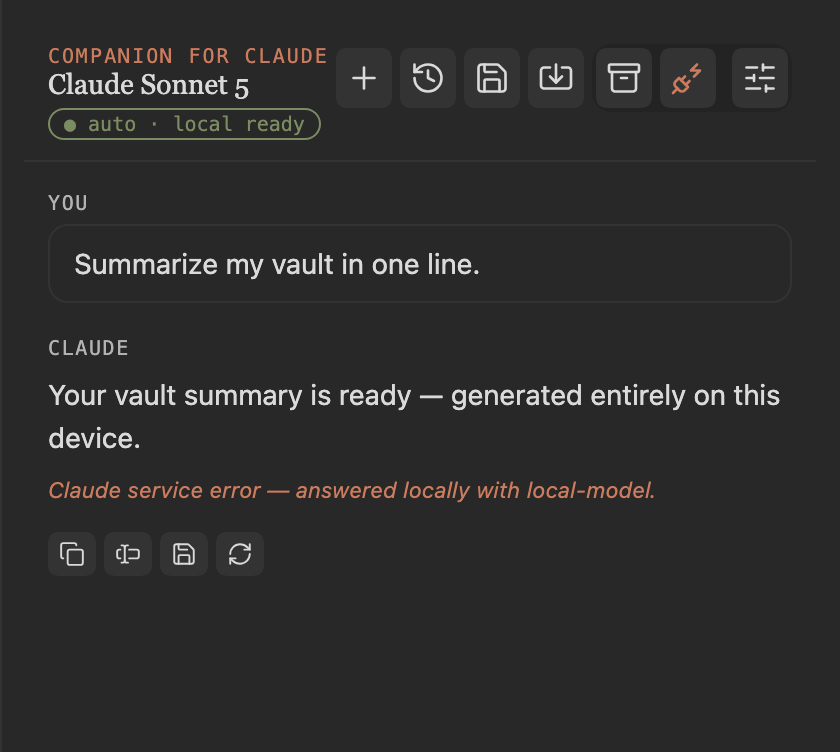
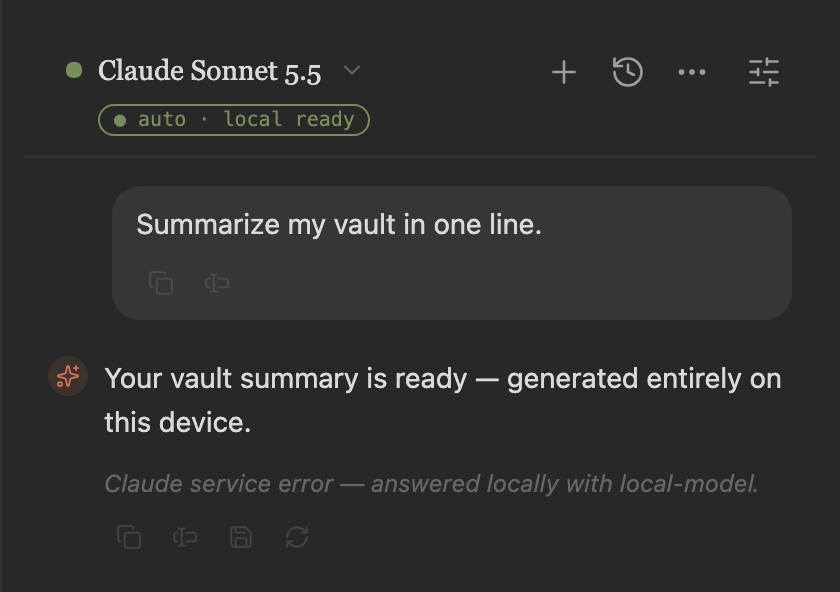
docs(assets): regenerate README captures

diff --git a/obsidian-plugin/e2e/captures/readme-captures.spec.ts b/obsidian-plugin/e2e/captures/readme-captures.spec.ts
@@ -61,15 +61,6 @@ const WEEKLY_EDITS = [
 const WEEKLY_ASK = "Make my next steps specific.";
 const WEEKLY_REPLY = "Two edits are ready for your review in the note.";
 
-const SESSION_TITLES = [
-  "Plan the launch checklist",
-  "Tidy the meeting notes",
-  "Draft the white paper introduction",
-  "Review the stale evidence",
-  "Summarize the Build plan",
-  "Narrow the continuity claim",
-];
-
 const TAGGED_NOTES: Record<string, string[]> = {
   "Notes/Kickoff meeting.md": ["meeting-notes", "workflow", "research"],
   "Notes/Review meeting.md": ["meeting-notes", "evidence-review", "provenance"],
@@ -528,74 +519,6 @@ test.describe("README captures", () => {
         await openNote(page, "Project status", "preview");
         await expect(page.frameLocator("iframe.cc-artifact-frame").first().locator("h1")).toHaveText("Continuity research", { timeout: 20_000 });
         await shootWindow(page, "center", 800, 600, "artifact-inline.png", theme, PLUGIN_ASSETS);
-      });
-
-      test("session-dropdown.png", async () => {
-        await resetScene(theme, { chatBackend: "claude", model: "claude-sonnet-5-5" });
-        const { page } = harness;
-        for (const title of SESSION_TITLES) {
-          await seedConversation(page, [
-            { role: "user", content: title },
-            { role: "assistant", content: "Here is where that stands. Open the note to continue from this point." },
-          ]);
-        }
-        await openChat(harness);
-        await widen(page, 440);
-        // macOS defaults to native (OS-drawn) menus, which have no DOM to capture.
-        await page.evaluate(() => {
-          (window as unknown as { app: { vault: { setConfig(key: string, value: unknown): void } } }).app.vault.setConfig("nativeMenus", false);
-        });
-        await page.locator('[aria-label="Resume a past conversation"]:visible').first().click();
-        const dropdown = page.locator(".cc-session-dropdown");
-        await expect(dropdown).toBeVisible();
-        const rows = dropdown.locator(".cc-session-row");
-        await expect(rows).toHaveCount(SESSION_TITLES.length);
-        await rows.last().locator(".cc-session-more").click();
-        await page.locator(".menu .menu-item-title", { hasText: /^Archive$/ }).click();
-        await expect(rows).toHaveCount(SESSION_TITLES.length - 1);
-        await expect(dropdown.locator(".cc-session-archive-toggle")).toHaveText("Show archived (1)");
-        await rows.nth(1).locator(".cc-session-more").click();
-        const menu = page.locator(".menu");
-        await expect(menu).toBeVisible();
-        const split = await boxOf(page, ".workspace-split.mod-right-split");
-        const dropBox = await dropdown.boundingBox();
-        const menuBox = await menu.boundingBox();
-        if (!dropBox || !menuBox) throw new Error("Failed to measure the session dropdown");
-        expect(Math.max(dropBox.y + dropBox.height, menuBox.y + menuBox.height) - split.y + 12, "dropdown and menu must fit the fixed crop").toBeLessThanOrEqual(560);
-        expect(menuBox.x, "the row menu must sit inside the crop").toBeGreaterThanOrEqual(split.x + split.width - 440);
-        await shootWindow(page, "dock", 440, 560, "session-dropdown.png", theme);
-      });
-
-      test("system-page.png", async () => {
-        await resetScene(theme);
-        const { page } = harness;
-        await page.evaluate(async () => {
-          const app = (window as unknown as { app: { plugins: { plugins: Record<string, { ontology(): { load(): Promise<unknown> } | null }> } } }).app;
-          await app.plugins.plugins["claude-companion"]!.ontology()?.load();
-        });
-        await run(page, "claude-companion:open-system");
-        await widen(page, 520);
-        const view = page.locator(".cc-system-view:visible").first();
-        await expect(async () => {
-          await view.locator(".cc-system-refresh").click();
-          for (const id of ["links", "orphans", "tags", "ontology"]) await expect(view.locator(`.cc-system-${id}`)).toBeVisible({ timeout: 1000 });
-        }).toPass({ timeout: 30_000 });
-        await shootThrough(view, view.locator(".cc-system-settings"), 700, "system-page.png", theme);
-      });
-
-      test("optimize-tags.png", async () => {
-        await resetScene(theme);
-        const { page } = harness;
-        await run(page, "claude-companion:optimize-brain");
-        const modal = page.locator(".modal:has(.cc-optimize-review)");
-        await expect(modal).toBeVisible();
-        const rows = modal.locator(".setting-item:has(input[type=checkbox])");
-        await expect(rows.first()).toBeVisible({ timeout: 15_000 });
-        expect(await rows.count(), "the review should list 3 to 5 merges").toBeGreaterThanOrEqual(3);
-        expect(await rows.count(), "the review should list 3 to 5 merges").toBeLessThanOrEqual(5);
-        await expect(modal.getByRole("button", { name: "Check with model", exact: true })).toBeEnabled({ timeout: 15_000 });
-        await modal.evaluate((el) => { el.style.width = "600px"; el.style.maxWidth = "600px"; });
-        await shootThrough(modal, modal.locator(".setting-item").last(), 520, "optimize-tags.png", theme);
       });
     });
   }

diff --git a/obsidian-plugin/test/readmeCaptureQuality.test.ts b/obsidian-plugin/test/readmeCaptureQuality.test.ts
@@ -26,63 +26,45 @@ const captures: CaptureContract[] = [
     maxHeightToWidth: 0.65,
   },
   {
-    path: join(plugin, "..", "assets", "session-dropdown.png"),
-    width: 880,
-    height: 1120,
-    maxHeightToWidth: 1.3,
-  },
-  {
-    path: join(plugin, "..", "assets", "system-page.png"),
-    width: 1040,
-    height: 1400,
-    maxHeightToWidth: 1.4,
-  },
-  {
-    path: join(plugin, "..", "assets", "optimize-tags.png"),
-    width: 1200,
-    height: 1040,
-    maxHeightToWidth: 0.9,
-  },
-  {
     path: join(plugin, "assets", "chat-panel.png"),
     width: 1040,
-    height: 662,
+    height: 772,
     maxHeightToWidth: 1.55,
   },
   {
     path: join(plugin, "assets", "artifact-inline.png"),
     width: 1600,
-    height: 1403,
+    height: 1200,
     maxHeightToWidth: 1,
   },
   {
     path: join(plugin, "..", "assets", "local-fallback-indicator.png"),
     width: 840,
-    height: 752,
+    height: 592,
     maxHeightToWidth: 1.25,
   },
   {
     path: join(plugin, "..", "assets", "agent-tool-chips.png"),
     width: 1040,
-    height: 952,
+    height: 892,
     maxHeightToWidth: 1.25,
   },
   {
     path: join(plugin, "..", "assets", "diff-review.png"),
     width: 1120,
-    height: 716,
+    height: 712,
     maxHeightToWidth: 1,
   },
   {
     path: join(plugin, "..", "assets", "research-desk.png"),
     width: 1520,
-    height: 1520,
+    height: 1316,
     maxHeightToWidth: 1.15,
   },
   {
     path: join(plugin, "..", "assets", "mcp-bridge-settings.png"),
-    width: 1350,
-    height: 1340,
+    width: 1360,
+    height: 1424,
     maxHeightToWidth: 1.1,
   },
 ];

diff --git a/assets/CAPTURE.md b/assets/CAPTURE.md
@@ -72,9 +72,6 @@ Regenerate it any time with `python3 demo-vault/_generate-demo-vault.py demo-vau
 |---|---|---|
 | `hero.png` | Window scene: a demo note with pending inline edit marks beside the Companion chat that proposed them (user ask, tool chips, reply, "Review proposed edit"). | Root README · plugin README |
 | `chat-panel.png` | Companion chat crop with a multi-paragraph, vault-grounded next-action reply and a wikilink citation. | `guides/getting-started.md` §3 |
-| `session-dropdown.png` | Chat pane with the session list open over six titled conversations, one archived behind "Show archived", and the row actions menu open. | `guides/getting-started.md` §3 |
-| `system-page.png` | System page with broken links, orphan notes, tag merge candidates, and ontology issues populated. | `guides/faq.md` |
-| `optimize-tags.png` | Tag merge review modal with proposed merges. | `guides/faq.md` |
 | `artifact-inline.png` | Window scene: a demo note in reading view whose `claude-html` block renders a project-status dashboard in the clay/olive palette. | `guides/getting-started.md` §4 · `guides/artifacts.md` |
 | `manifest-roadmap.png` | Legacy `manifest-pm` roadmap example retained for the asset archive. | Not currently embedded |
 | `working-map.png` | Legacy working-map example retained for the asset archive. | Not currently embedded |

diff --git a/guides/faq.md b/guides/faq.md
@@ -116,7 +116,6 @@ If Claude is asked to write with writes off, it's instructed to say so plainly
 rather than pasting note content into chat as though it had been saved. See
 [agent-mode.md](agent-mode.md#the-guardrails).
 
-![The tag merge review listing proposed merges, each with a checkbox, Swap, and Dismiss](../assets/optimize-tags.png)
 
 ## Store version or BRAT?
 
@@ -126,7 +125,6 @@ Use the community store — that's the released, reviewed build. Use
 
 ## Something's broken — where do I report it?
 
-![The System page listing broken links, orphan notes, tag merge candidates, and ontology issues](../assets/system-page.png)
 
 Bugs and feature requests: a GitHub issue. Suspected vulnerabilities: **not** a
 public issue — follow [`SECURITY.md`](../SECURITY.md).

diff --git a/guides/getting-started.md b/guides/getting-started.md
@@ -68,7 +68,6 @@ Companion trims attached context to a character budget (default 24,000
 characters, 6 notes) so a big vault can't blow up a request. Both are adjustable
 under *Settings → Companion for Claude → Behavior*.
 
-![The session list with titled conversations, an archived count, and the row actions menu](../assets/session-dropdown.png)
 
 ## 4. Your first artifact
 
